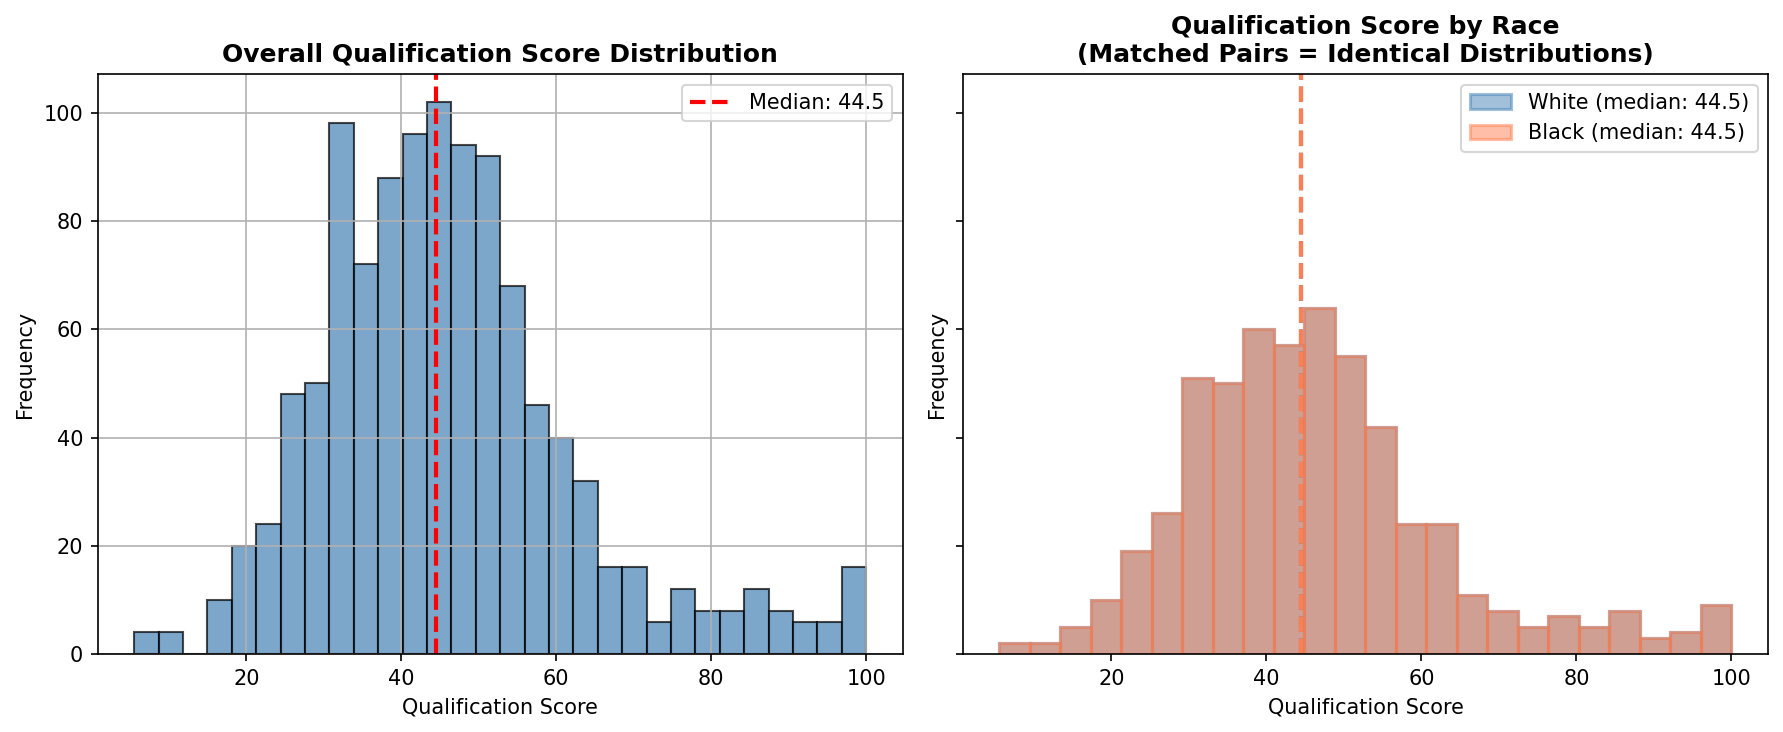
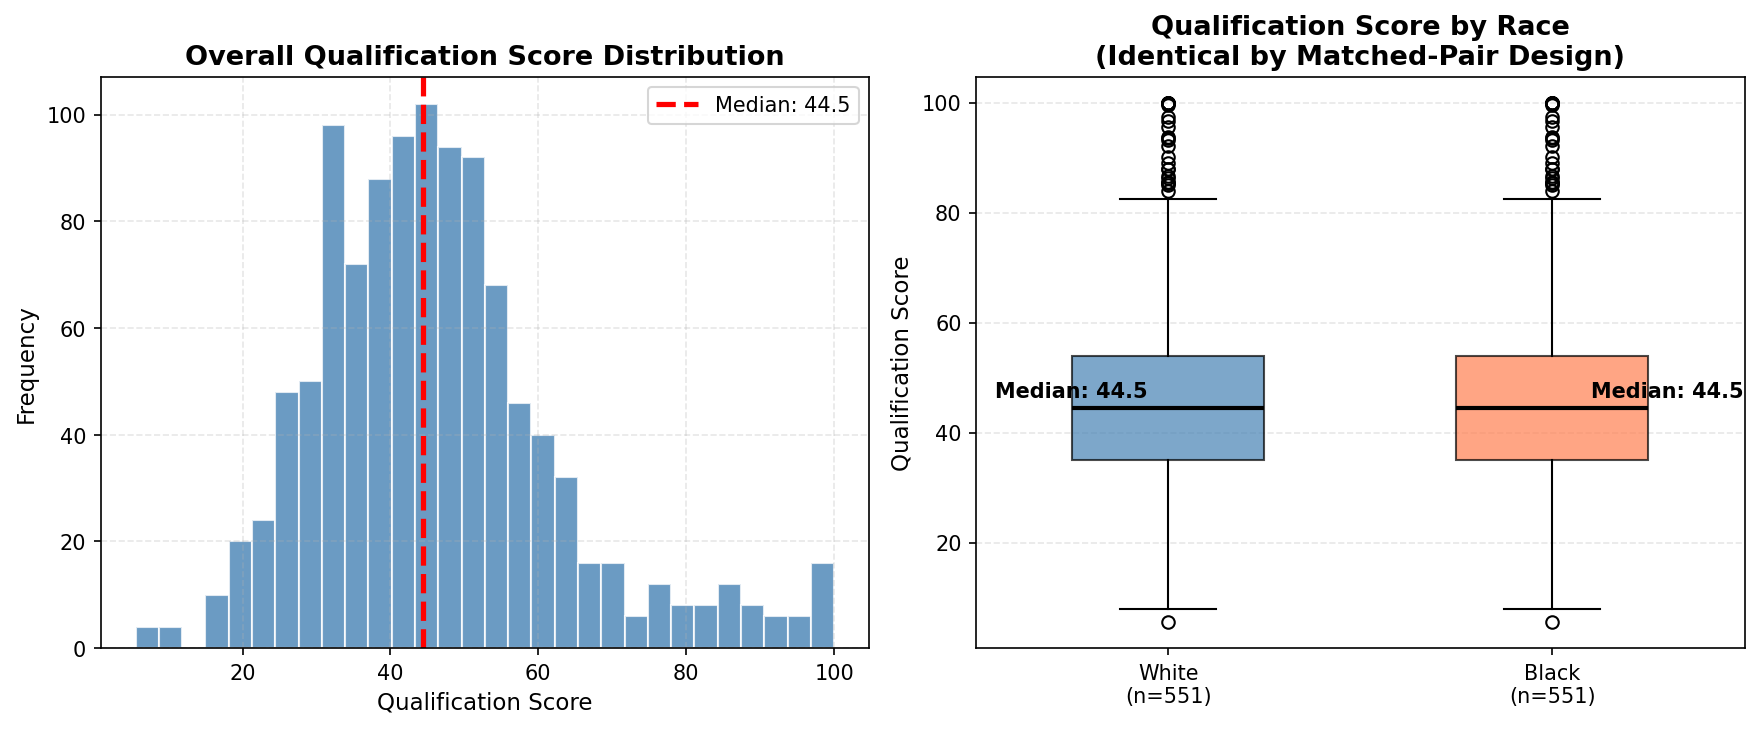
Added colorblind-friendly visualizations for presentation
- Created callback rate figures for both LR and RF models
- Redesigned regime comparison with Wong colorblind palette
- Replaced histogram with box plots for qualification score comparison
- Updated README with new figures and added Pager (2003) citation

diff --git a/README.md b/README.md
@@ -58,8 +58,11 @@ All trained on identical biased labels—only feature availability differs:
 
 ## Results
 
-### Callback Rates by Race
-![Regime Comparison](results/figures/regime_comparison.png)
+### Callback Ratio & Disparate Impact
+![Callback Ratio and Disparate Impact](results/figures/callback_ratio_and_disparate_impact.png)
+
+### Callback Rates by Race (Logistic Regression)
+![Callback Rate LR](results/figures/callback_rate_by_race_lr.png)
 
 ### Statistical Significance
 
@@ -111,6 +114,8 @@ Names cluster by race in model coefficients:
 ## References
 
 - Bertrand, M., & Mullainathan, S. (2004). Are Emily and Greg more employable than Lakisha and Jamal? *American Economic Review*, 94(4), 991-1013.
+
+- Pager, D. (2003). The mark of a criminal record. *American Journal of Sociology*, 108(5), 937-975.
 
 - Quillian, L., Pager, D., Hexel, O., & Midtbøen, A. H. (2017). Meta-analysis of field experiments shows no change in racial discrimination in hiring over time. *PNAS*, 114(41), 10870-10875.
 
